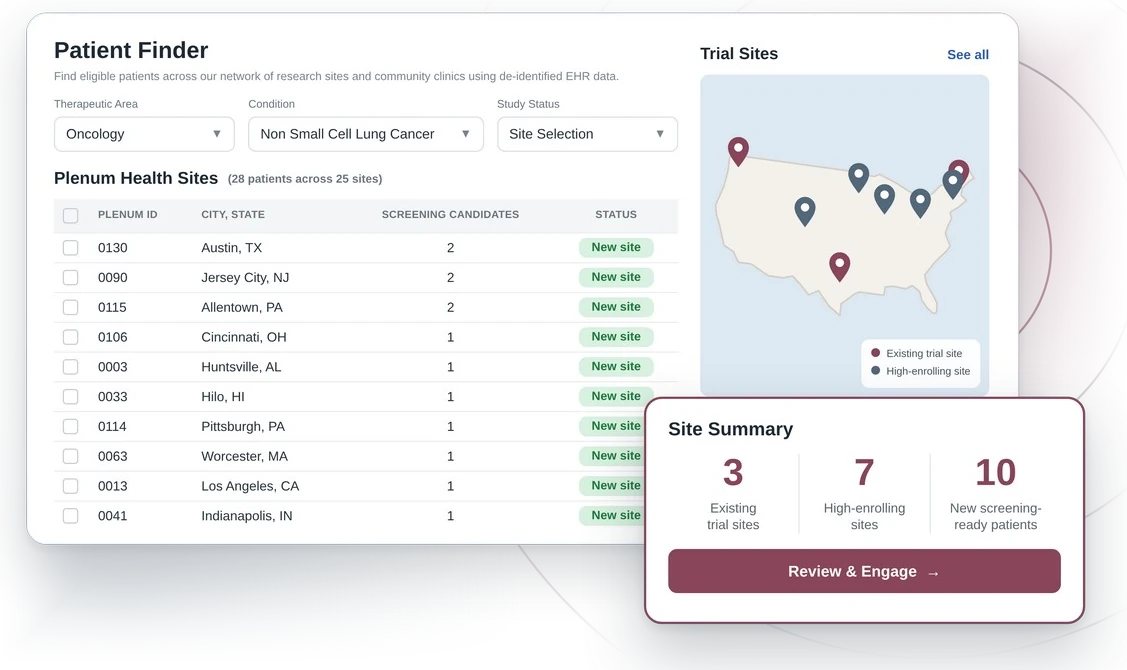
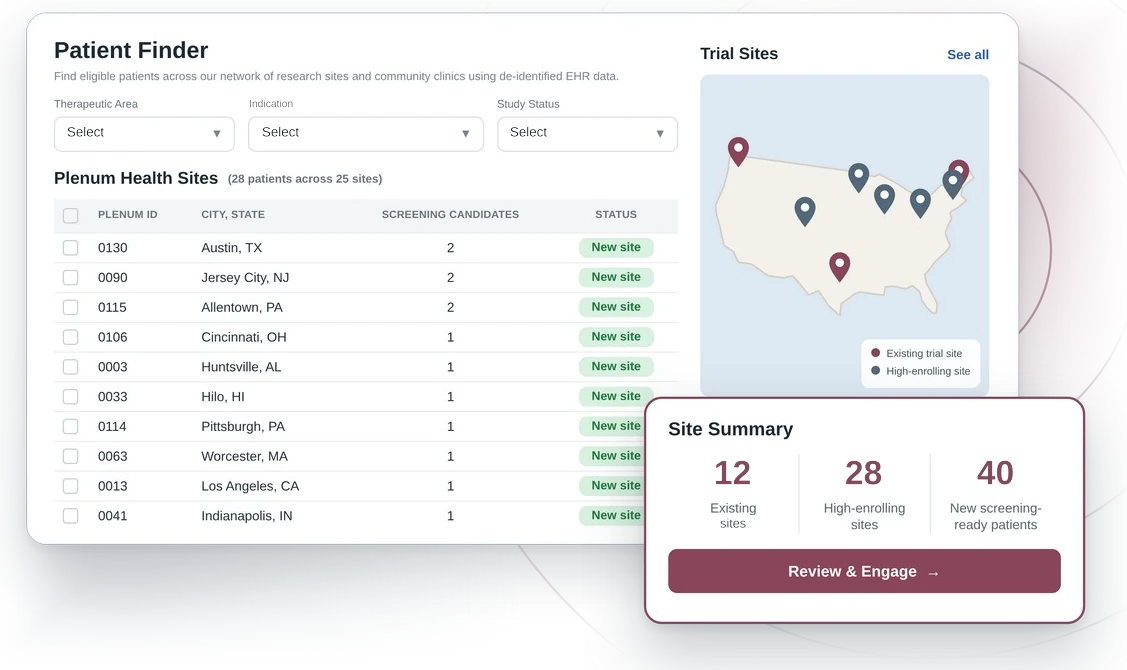
Update hero, About, principles, and ReaLayer graphic

diff --git a/index.html b/index.html
@@ -150,12 +150,19 @@
     .about-card h3 { font-size: .78rem; letter-spacing: .14em; text-transform: uppercase; color: var(--slate); font-weight: 600; margin-bottom: 8px; }
     .about-card:nth-child(2) h3 { color: var(--magenta); }
     .about-card p { font-family: "Fraunces", Georgia, serif; font-weight: 500; font-size: 1.18rem; line-height: 1.4; }
-    .principles-title { margin: 64px 0 18px; font-size: .78rem; letter-spacing: .14em; text-transform: uppercase; color: var(--muted); font-weight: 600; }
-    .principles { list-style: none; display: grid; grid-template-columns: repeat(4, 1fr); gap: 20px; }
-    .principles li { border-top: 3px solid var(--magenta); padding-top: 16px; }
-    .principles .num { font-family: "Fraunces", Georgia, serif; font-weight: 600; color: var(--magenta); font-size: 1rem; }
-    .principles h4 { font-family: "Fraunces", Georgia, serif; font-weight: 600; font-size: 1.2rem; line-height: 1.25; margin: 6px 0 8px; }
-    .principles p { color: var(--muted); font-size: .96rem; }
+    .about { padding-bottom: 88px; }
+    .principles-band {
+      position: relative; overflow: hidden; color: #fff; padding: 72px 24px 80px;
+      background: radial-gradient(700px 360px at 92% 0%, rgba(136,70,91,.45), transparent 62%), radial-gradient(600px 360px at 0% 100%, rgba(83,104,123,.4), transparent 62%), var(--navy);
+    }
+    .principles-wrap { max-width: 1120px; margin: 0 auto; position: relative; }
+    .principles-title { text-align: center; font-size: .78rem; letter-spacing: .16em; text-transform: uppercase; color: var(--magenta-tint); font-weight: 600; margin: 0 0 44px; }
+    .principles { list-style: none; display: grid; grid-template-columns: repeat(4, 1fr); }
+    .principles li { display: flex; flex-direction: column; align-items: center; text-align: center; padding: 6px 20px; border-left: 1px solid rgba(255,255,255,.14); }
+    .principles li:first-child { border-left: 0; }
+    .principles svg { width: 56px; height: 56px; margin-bottom: 22px; fill: none; stroke: var(--magenta-tint); stroke-width: 1.5; stroke-linecap: round; stroke-linejoin: round; }
+    .principles svg circle:first-child { stroke: rgba(217,163,181,.45); }
+    .principles h4 { font-family: "Fraunces", Georgia, serif; font-weight: 500; font-size: clamp(1.15rem, 1.7vw, 1.4rem); line-height: 1.3; margin: 0; color: #fff; text-wrap: balance; }
 
     /* ---------- Footer ---------- */
     footer { border-top: 1px solid var(--line); padding: 24px 24px 22px; text-align: center; color: var(--muted); font-size: .9rem; }
@@ -198,11 +205,14 @@
       .partners-logos { grid-template-columns: repeat(2, 1fr); gap: 20px 24px; }
       .about { padding: 80px 24px 72px; }
       .about-top { grid-template-columns: 1fr; gap: 32px; }
-      .principles { grid-template-columns: repeat(2, 1fr); gap: 28px 24px; }
+      .principles { grid-template-columns: repeat(2, 1fr); gap: 40px 0; }
+      .principles li:nth-child(3) { border-left: 0; }
+      .principles-band { padding: 56px 24px 64px; }
     }
     @media (max-width: 560px) {
       .cta-row { grid-template-columns: 1fr; }
-      .principles { grid-template-columns: 1fr; }
+      .principles { grid-template-columns: 1fr; gap: 32px; }
+      .principles li { border-left: 0; }
       .nav { gap: 14px; }
     }
     @media (prefers-reduced-motion: reduce) { * { transition: none !important; scroll-behavior: auto !important; } }
@@ -232,13 +242,13 @@
         <div class="wrap hero-grid">
           <div class="hero-copy">
             <h1>Research that <em>reaches</em> people</h1>
-            <p class="lede">We build technology that matches people to the right healthcare opportunities, using real world data to connect underserved patients with programs they qualify for but might otherwise miss.</p>
+            <p class="lede">An AI-native intelligence platform connecting real world data to research targets</p>
             <div class="cta-row">
               <a class="btn btn-primary" href="https://docs.google.com/forms/d/e/1FAIpQLScQ9MS7P_MVmsYoYwRnBGnnAukIM0tSnRbb3kTgdxe3F2HfuQ/viewform?usp=dialog" data-form-link data-form="sponsor" target="_blank" rel="noopener">
-                <strong>Sponsors</strong><span>Click to Find Patients</span>
+                <strong>Sponsors</strong><span>Find Subjects</span>
               </a>
               <a class="btn btn-primary" href="https://docs.google.com/forms/d/e/1FAIpQLScQ9MS7P_MVmsYoYwRnBGnnAukIM0tSnRbb3kTgdxe3F2HfuQ/viewform?usp=dialog" data-form-link data-form="site" target="_blank" rel="noopener">
-                <strong>Sites</strong><span>Click to Win a Study</span>
+                <strong>Sites</strong><span>Win a Trial</span>
               </a>
             </div>
           </div>
@@ -246,7 +256,6 @@
             <img src="assets/platform/realayer-ui.webp" alt="Preview of the ReaLayer platform: a patient finder table beside a map of trial sites" width="1127" height="670">
             <figcaption>
               <span class="realayer-name">ReaLayer<sup>&trade;</sup> <em>by Plenum Health</em></span>
-              <span class="realayer-desc">An AI-native real-world data intelligence platform connecting clinical records to research targets.</span>
             </figcaption>
           </figure>
         </div>
@@ -272,7 +281,7 @@
           <div>
             <span class="about-eyebrow">About Plenum Health</span>
             <h2 id="about-title">Real-world data, put to work for patients, sites, and sponsors.</h2>
-            <p class="about-intro">Plenum Health connects real-world clinical data to the studies that need participants. Sponsors see where eligible patients are before they commit to site activation. Sites and community clinics show what their patients can bring to a study. And patients are considered for opportunities they might never have heard about.</p>
+            <p class="about-intro">Plenum Health uses real-world data to help sponsors assess patient availability when selecting new trial sites or expanding recruitment through sites already selected. By connecting protocol requirements with patient populations across sites, ReaLayer by Plenum Health helps sponsors identify where potentially eligible subjects receive care and guide feasibility, activation, and recruitment decisions. These insights can help sponsors determine whether to add sites or identify additional participants through existing sites, significantly reducing the time and cost of further site feasibility. Sites gain an evidence-based way to demonstrate their recruitment potential for specific studies, while patients can be considered for research opportunities they might otherwise never encounter.</p>
           </div>
           <div class="about-cards">
             <article class="about-card">
@@ -281,32 +290,33 @@
             </article>
             <article class="about-card">
               <h3>Vision</h3>
-              <p>A future where every eligible patient is considered for the right opportunity, wherever they live or receive care.</p>
+              <p>A future where every eligible patient can be considered for a clinical trial, regardless of where they live or receive care.</p>
             </article>
           </div>
         </div>
 
-        <h3 class="principles-title">Core principles</h3>
+      </div>
+    </section>
+
+    <section class="principles-band" aria-labelledby="principles-title">
+      <div class="principles-wrap">
+        <h3 class="principles-title" id="principles-title">Core principles</h3>
         <ol class="principles">
           <li>
-            <span class="num">01</span>
-            <h4>Every patient deserves to be seen.</h4>
-            <p>Eligibility should be considered across whole populations, not only the patients who already reach a research center.</p>
+            <svg viewBox="0 0 48 48" aria-hidden="true"><circle cx="24" cy="24" r="23"/><path d="M11 24s5-8 13-8 13 8 13 8-5 8-13 8-13-8-13-8z"/><circle cx="24" cy="24" r="3.5"/></svg>
+            <h4>Every patient<br>deserves to be seen</h4>
           </li>
           <li>
-            <span class="num">02</span>
-            <h4>Research belongs in every community.</h4>
-            <p>Community clinics and private practices belong in the network alongside academic research hubs.</p>
+            <svg viewBox="0 0 48 48" aria-hidden="true"><circle cx="24" cy="24" r="23"/><path d="M24 36s-8-7-8-14a8 8 0 0 1 16 0c0 7-8 14-8 14z"/><circle cx="24" cy="22" r="3"/></svg>
+            <h4>Research belongs<br>in every community</h4>
           </li>
           <li>
-            <span class="num">03</span>
-            <h4>Data should serve people.</h4>
-            <p>Real-world data matters when it leads to a real person getting a real opportunity.</p>
+            <svg viewBox="0 0 48 48" aria-hidden="true"><circle cx="24" cy="24" r="23"/><circle cx="24" cy="19" r="5"/><path d="M14 35c1-6 5-9 10-9s9 3 10 9"/></svg>
+            <h4>Data should<br>serve people</h4>
           </li>
           <li>
-            <span class="num">04</span>
-            <h4>Kindness is a standard.</h4>
-            <p>We work with patients, sites, and sponsors the way we would want to be treated: clearly, respectfully, and without wasted effort.</p>
+            <svg viewBox="0 0 48 48" aria-hidden="true"><circle cx="24" cy="24" r="23"/><path d="M24 35s-10-6-10-13a5.5 5.5 0 0 1 10-3 5.5 5.5 0 0 1 10 3c0 7-10 13-10 13z"/></svg>
+            <h4>Kindness is<br>a standard</h4>
           </li>
         </ol>
       </div>
@@ -352,8 +362,8 @@
 
       var MODES = {
         general: { t: "Get in touch", s: "" },
-        sponsor: { t: "Sponsors", s: "Find patients for your study" },
-        site:    { t: "Sites",    s: "Win a study with your patient access" }
+        sponsor: { t: "Sponsors", s: "Find subjects for your trial" },
+        site:    { t: "Sites",    s: "Win a trial with your patient access" }
       };
 
       function open(e) {
